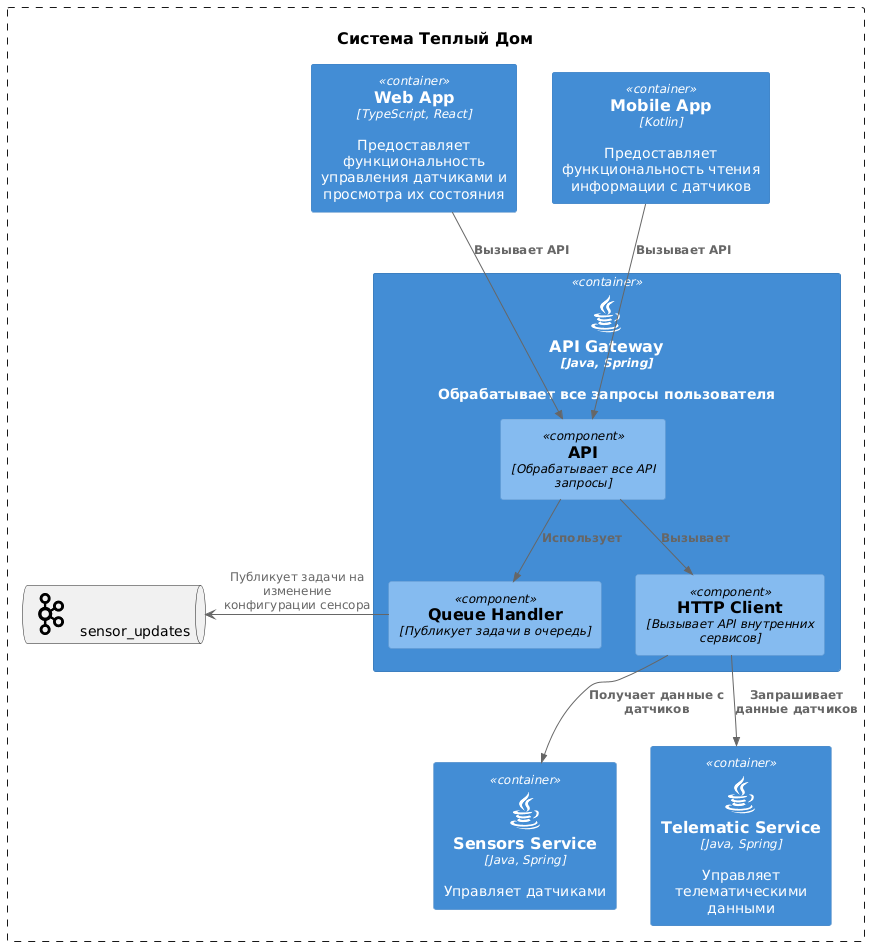
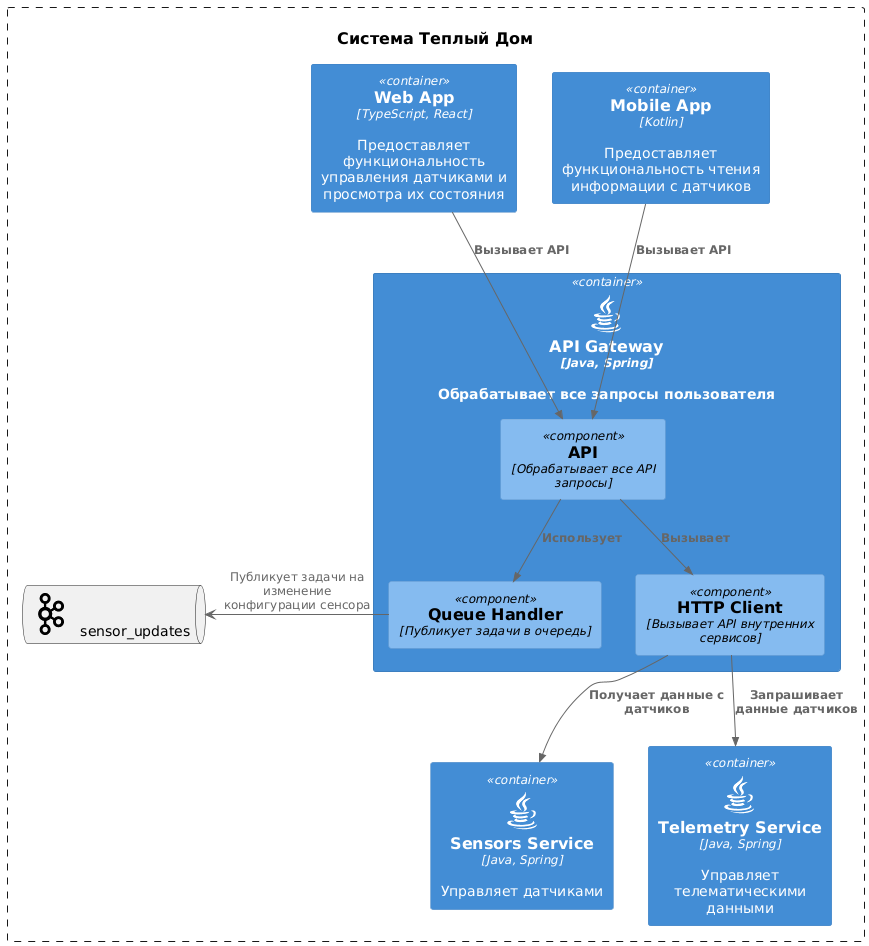
Переименован telematic -> telemetry

Changed region(s): [[0.7457, 0.797, 0.9632, 0.981], [0.4971, 0.7664, 0.7146, 0.9503]]

diff --git a/Project_template_part_1.md b/Project_template_part_1.md
@@ -61,16 +61,16 @@
 
 ![диаграмма](/diagrams/component/receiver.png)
 
-## telematic_service
-[код](/diagrams/component/telematic_service.puml)
+## telemetry_service
+[код](/diagrams/component/telemetry_service.puml)
 
-![диаграмма](/diagrams/component/telematic_service.png)
+![диаграмма](/diagrams/component/telemetry_service.png)
 
 **Диаграмма кода (Code)**
 
-[telematic_service](/diagrams/code/telematic.puml)
+[telemetry_service](/diagrams/code/telemetry.puml)
 
-![диаграмма](/diagrams/code/telematic.png)
+![диаграмма](/diagrams/code/telemetry.png)
 
 # Задание 3. Разработка ER-диаграммы
 
